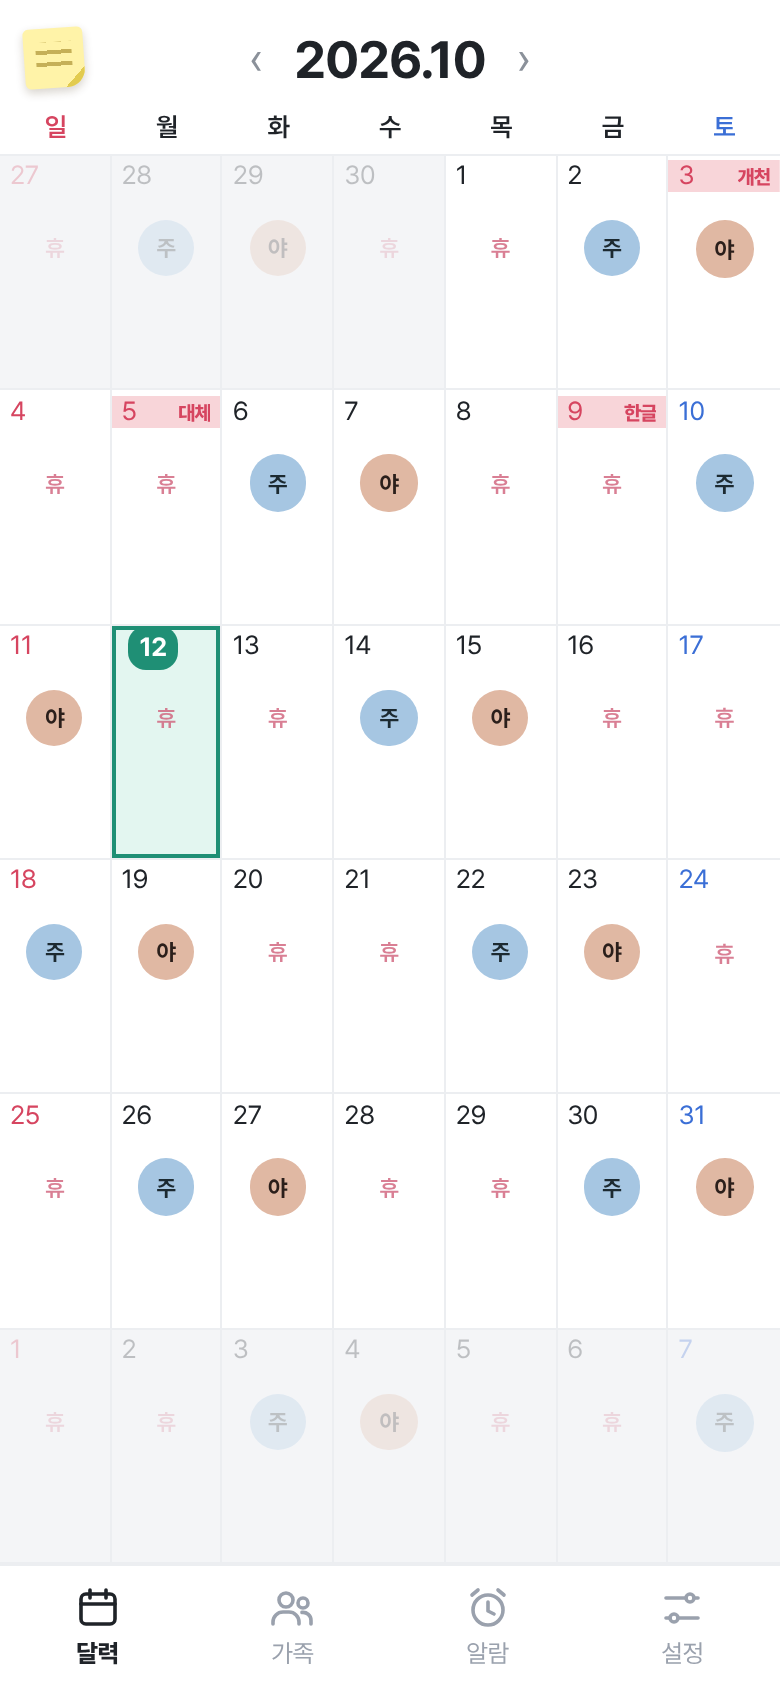
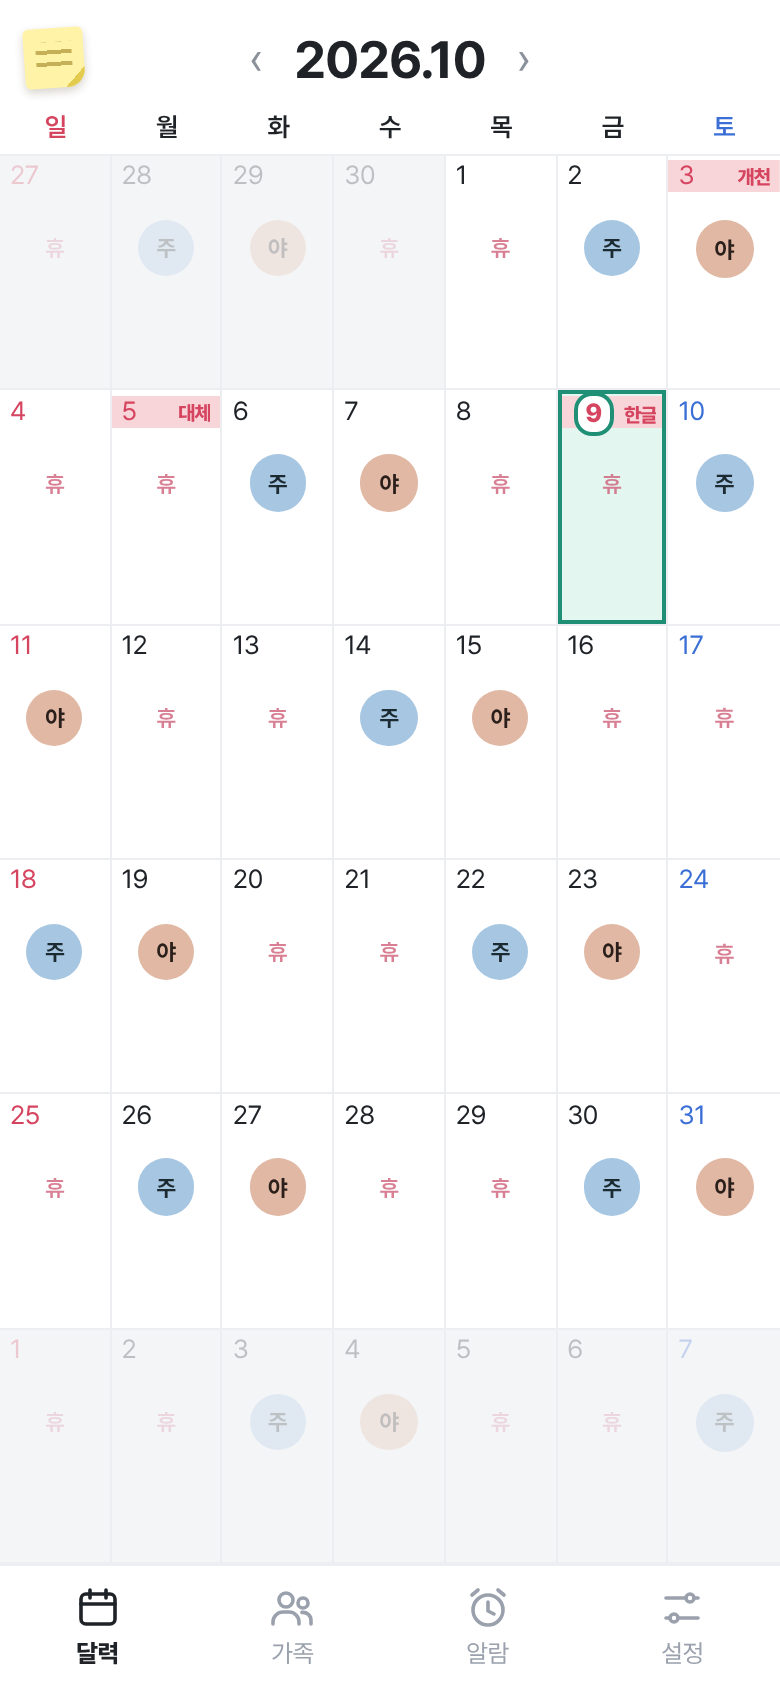
design: 오늘 표시 = 테두리 (휴일 색 유지)
Claude-Session: https://claude.ai/code/session_01JTBnEvptp151JygSjZNCTX

Changed region(s): [[0.1231, 0.3697, 0.3077, 0.5237], [0.7077, 0.2156, 0.8615, 0.3697]]

diff --git a/docs/TODO.md b/docs/TODO.md
@@ -2480,7 +2480,7 @@
 13. 달력 화면은 크게 안 바꿈 (시안 design/calendar/compare.png): 글꼴 Pretendard 따라감 · 위 머리 흰 바탕 · ‹ › 크고 진하게 · 요일 줄 흰 바탕 작고 회색(일 빨강 · 토 파랑) · 메모 띠 모서리 4.
 14. 달력 오늘 표시 더 잘 보이게 (사용자 2026-11-15): 지금은 앱 켤 때 한 번 0.82초 · 옅게(선 최대 .47 · 꼬리 .2) 돌아서 눈에 안 띔.
   ① 빛 두 바퀴 (GLOW_MS 1600 쯤 · 두 바퀴 돌고 사라짐) · 선 굵게 · 진하게(선 .8 · 꼬리 .5).
-  ② 늘 보이는 표시 하나 더: 오늘 날짜 숫자를 오늘 색 알약(흰 글씨)으로 — 날짜 창 띠의 오늘 표시와 같은 모양. 칸 채우기 · 동그라미 둘 다.
+  ② 늘 보이는 표시 하나 더: 오늘 날짜 숫자에 오늘 색 테두리(속은 흰색 · 숫자 색은 그대로 → 공휴일 빨강 · 토요일 파랑이 안 가려짐 · 사용자 지적) · 숫자 굵게. 칸 채우기 · 동그라미 둘 다. (시안 design/calendar/today_crop.png · 한글날을 오늘로 둔 예)
   ③ 앱을 다시 열 때(다른 앱 갔다 돌아올 때 · 하루 넘었을 때)도 한 번 돌기.
 - 나눠 만들기: 1차 = 공통 모양(글꼴 · 카드 · 줄 · 스위치 · 파랑) + 알람 설정 + 근무 패턴 + AI 티 · 코드 점검 고칠 거리 / 2차 = 나머지 설정 화면 · 가족 연결 · 가족 목록 · 스티커 · 이미지 공유 · 설명문 줄이기.
 - (나중에 생각) 가족 목록 · 가족 연결 두 화면 합치기.
